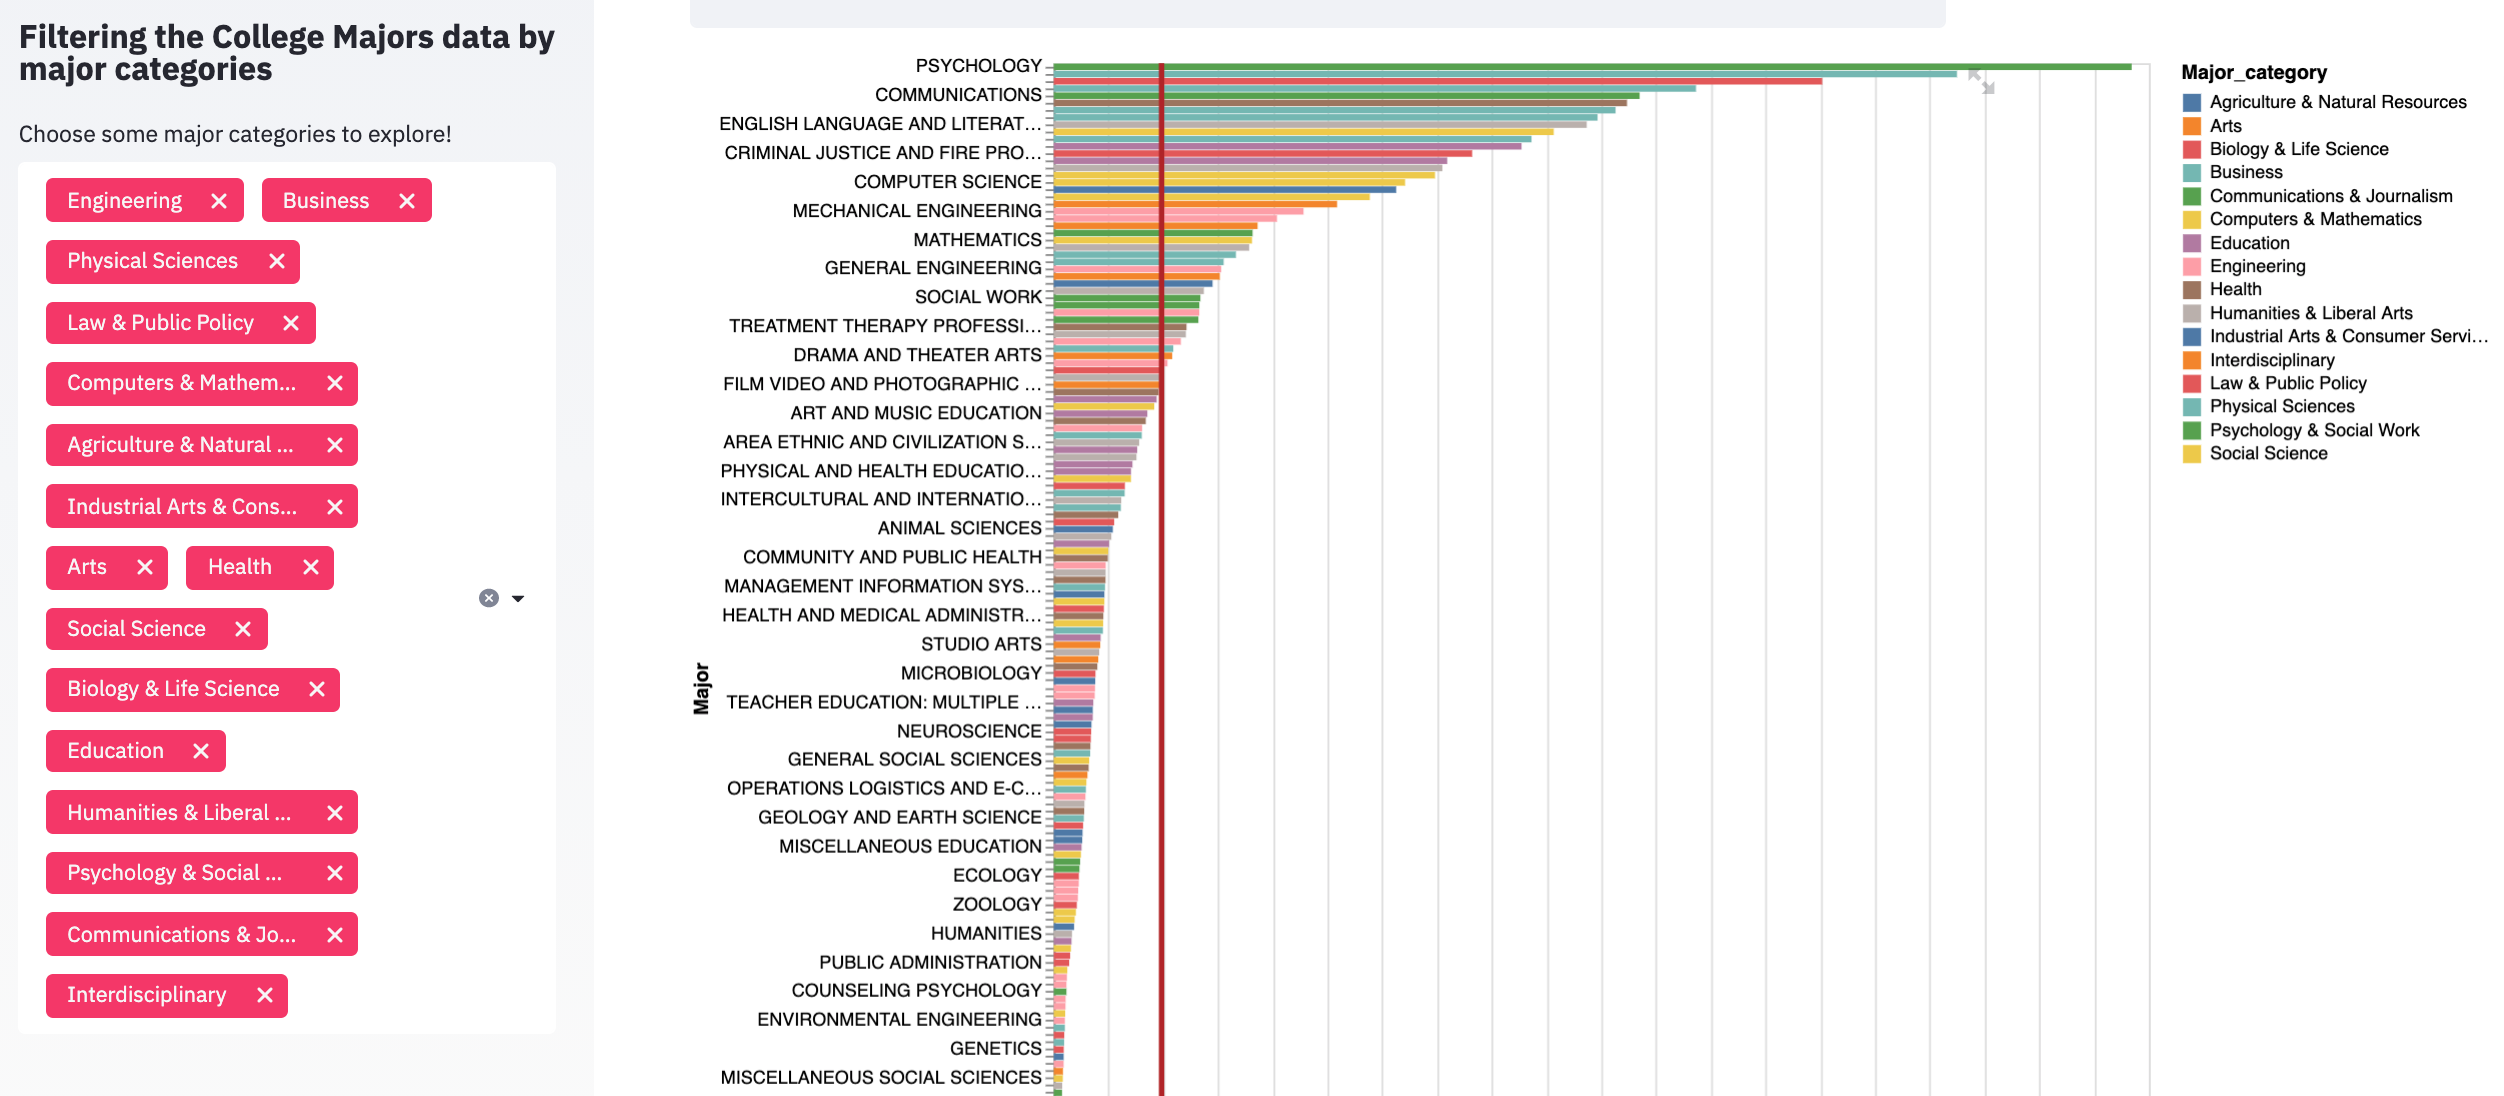
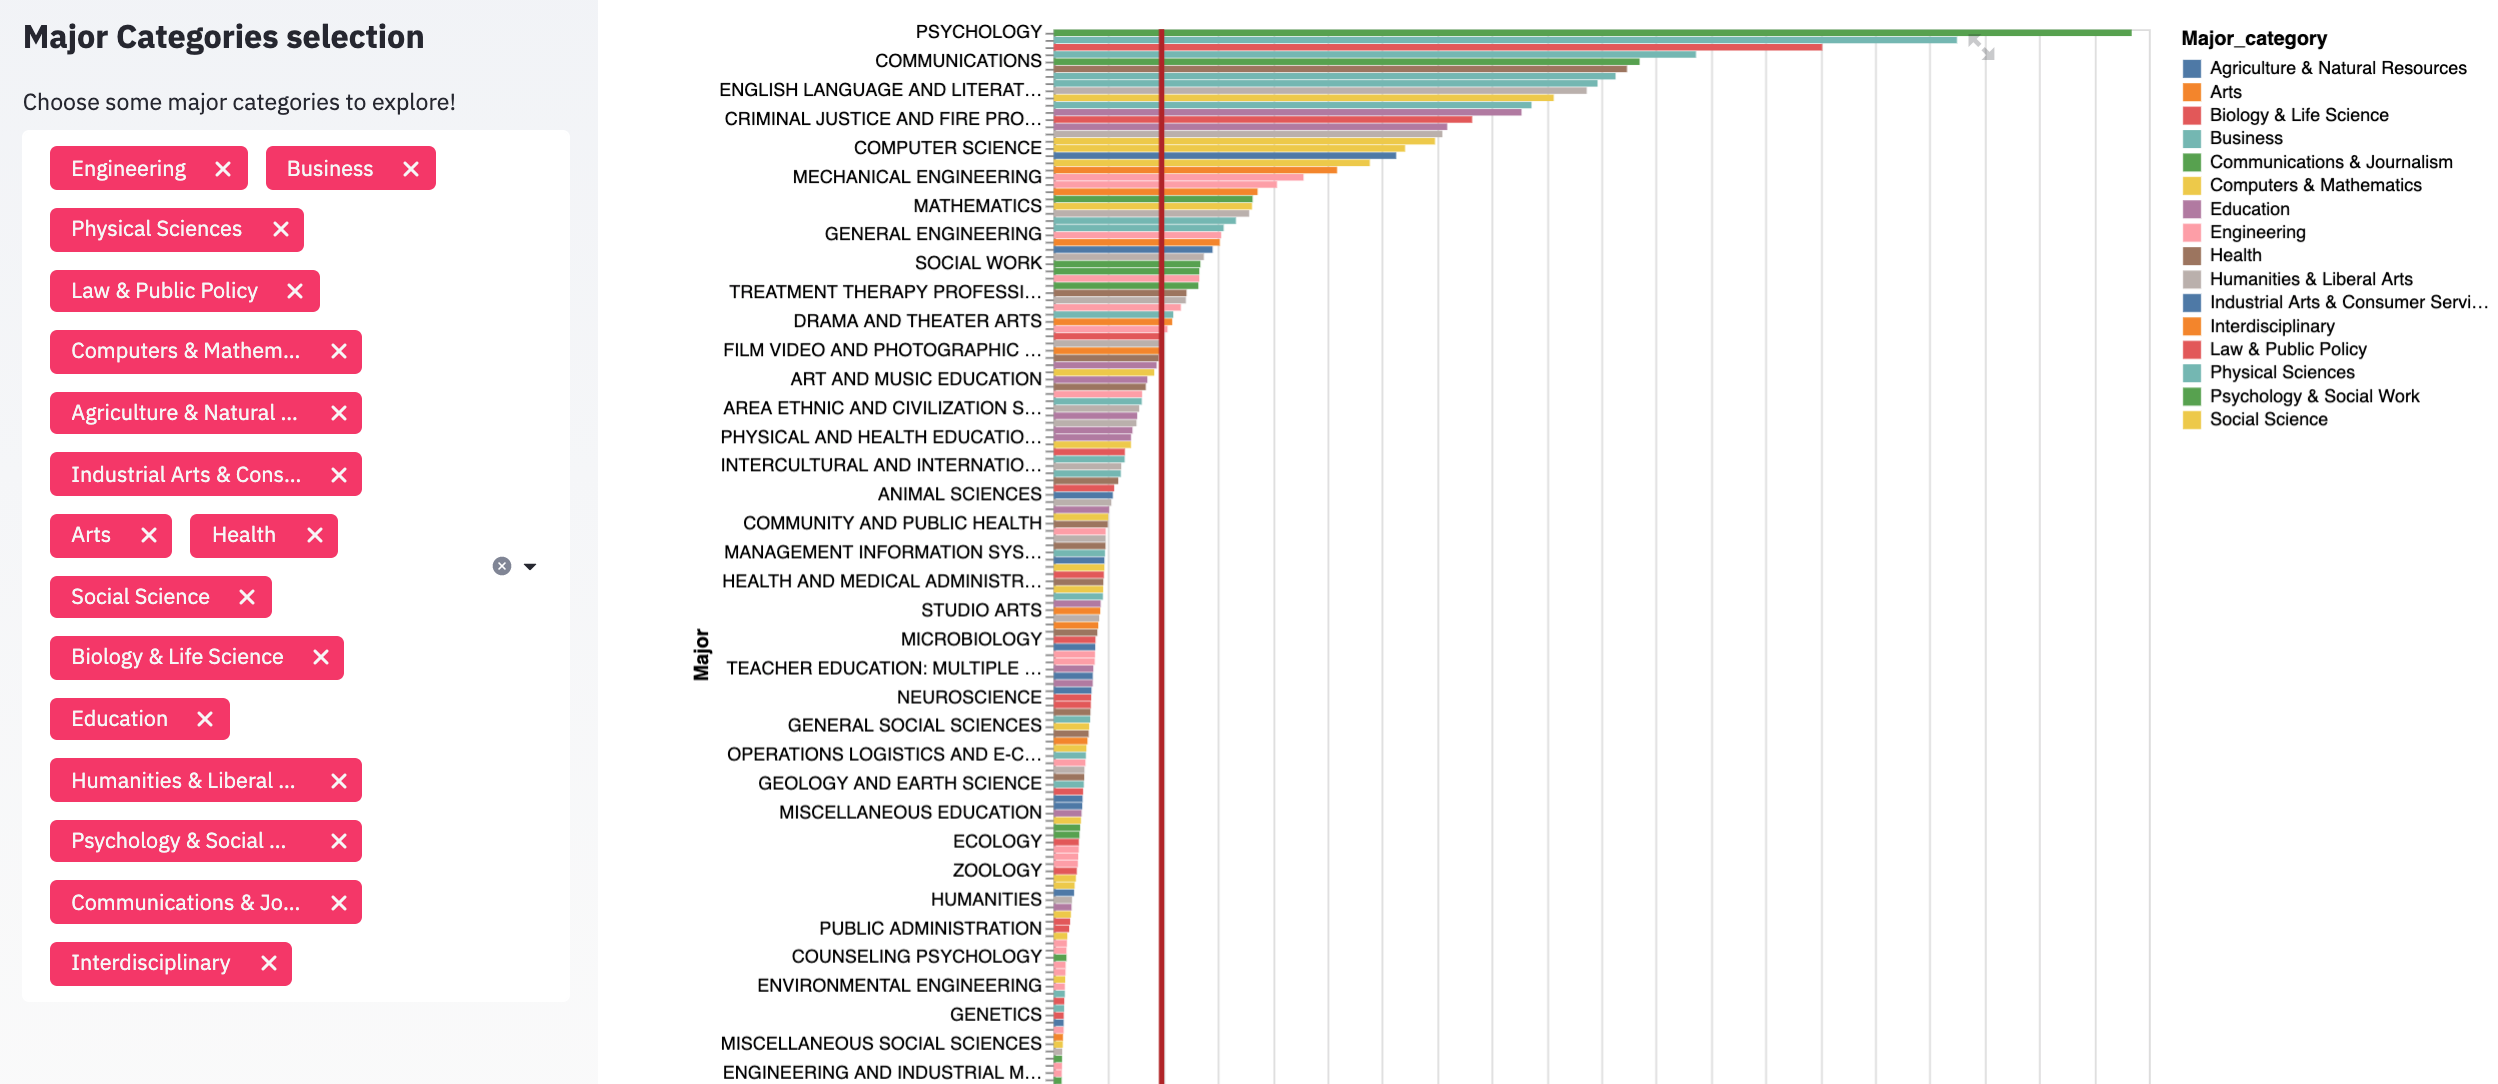
Update writeup

Changed region(s): [[0.281, 0.0, 0.9992, 1.0], [0.0, 0.0, 0.2186, 0.9437], [0.1873, 0.5175, 0.2186, 0.548]]

diff --git a/streamlit_app.py b/streamlit_app.py
@@ -56,7 +56,7 @@ def draw_title():
 def draw_selection(selection):
     st.sidebar.markdown(
     """
-    ### Filtering the College Majors data by major categories
+    ### Major Categories selection
     """
     )
     selected = st.sidebar.multiselect("Choose some major categories to explore!", selection, default=selection)
@@ -126,6 +126,7 @@ def draw_correlations(df, selected, useful_cols):
     This correlation graph serves as a reference for users to explore potential correlations between any two statistics. Some findings we discovered while analyzing the graph are listed below. It would be also interesting to look at the statistics under specific major categories. We also encourage users to explore and discover more insighs about the statistics!
     - Low Wage Jobs is highly correlated with Non-College Jobs
     - College Jobs is more correlated with Women than Men
+    - (more to be discovered)
     """
     )
     draw_corr_heatmap(df, selected, useful_cols)
@@ -192,7 +193,7 @@ def draw_corr_scatter(df, selected, useful_cols):
     ).add_selection(
         brush
     ).properties(
-        width=900, height=400
+        width=850, height=400
     )
 
     support_chart = alt.Chart(filtered_df).mark_bar().encode(

diff --git a/writeup.md b/writeup.md
@@ -21,28 +21,28 @@ Several other interesting questions can be investigated while playing around wit
 
 ## Design
 
-#### Major Categories sidebar
+### Major Categories sidebar
 
-![](image/sidebar.png)
+![Major Categories sidebar](image/sidebar.png)
 
 Firstly, our project provides a multi-select box to enable users to pick major categories they want to focus on investigating: for example, Engineering, Law, and Mathematics, etc. The reason for this filter functionality is that instead of all majors, users probably tend to know information about some specific ones. In this way, users can filter out the undesired majors from the visualization to better focus on the selected ones.
 
 We considered other alternatives to achieve this functionality. For example, we could introduce another dropdown menu for every visualizations to allow users to select the major categories, but this kind of solution introduces redundant buttons for users to select, which worsens the experience of using our visualization.
 
 
-#### Statistics on all majors
+### Statistics on all majors
 
-![](image/v_1.gif)
+![Statistics](image/v_1.gif)
 
 The first visualization demonstrates aggregated data with respect to majors and a user-controlled field (e.g., Median Wage). We also insert a red line which represents the average value of the selected field, enabling users to compare their target data with the mean of the selected field. Combining these visual encodings together could allow users to find answers about some complicated questions they raise: for example, “What’s the difference between the expected wage of my major and the average wages of the top 25% highest-wages majors?”.
 
 We thought about using scatter plots to visualize this data, but found that they are deficient to visually reflect different quantities, so we choose bar charts instead to help displaying this kind of information.
 
-#### Correlation exploration on statistics
+### Correlation exploration on statistics
 
 The second visualization is used for revealing statistical relationships between fields, which is served more as a tool than a conclusion drawn by the visualization makers.
 
-![](image/v_2.gif)
+![Correlation Matrix](image/v_2.gif)
 
 To explore potential correlations among all statistics, a correlation matrix is calculated to check whether any two of the statistics correlate with each other. The matrix is visualized with their correlation values colored from light to dark. As the color goes darker, the two statistics are more correlated with each other.
 
@@ -52,7 +52,7 @@ The correlation matrix serves as a reference for users to discover potential cor
 
 We considered other method to display this correlation matrix. For example, we can plot the visualizations with scatter plot. However, without the color encoding like the heatmap presented above, it is hard to visually understand what are the more correlated statistics.
 
-![](image/v_3.gif)
+![Scatter Plot](image/v_3.gif)
 
 Three sub-visualizations build up the whole picture: the upper scatter plot reveals the distribution with respect to two fields, and the rest two bar charts shows the values of each field with respect to majors. Users can use the scatter plot to investigate the relationship between the selected two fields, and to examine whether there is any correlation between the two fields. Users can also select a range of majors to further examine their corresponding data in the lower two bar charts. The two bar charts are not just redundant iterations of the data represented by the scatter plot. They are actually useful because:
 -  it vividly shows the exact data with a user-defined region, in which points could be potentially close to each other and hard to perceive the exact value
